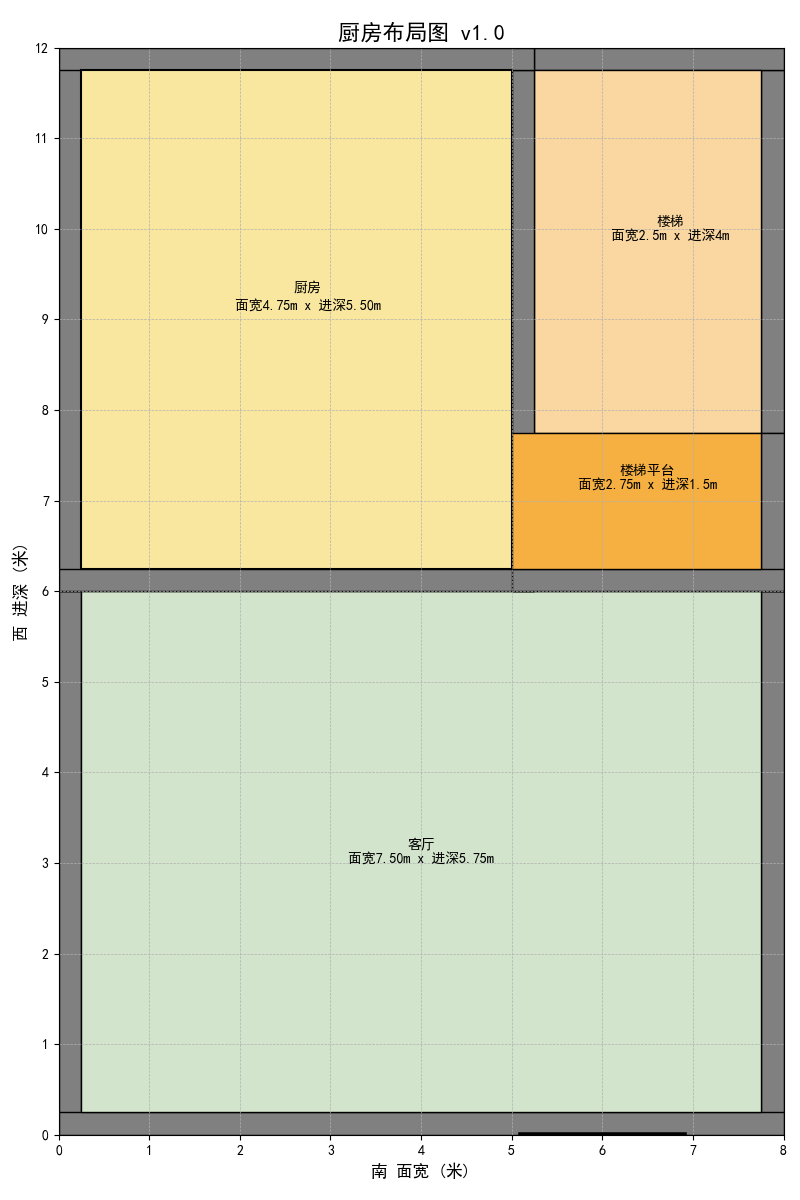
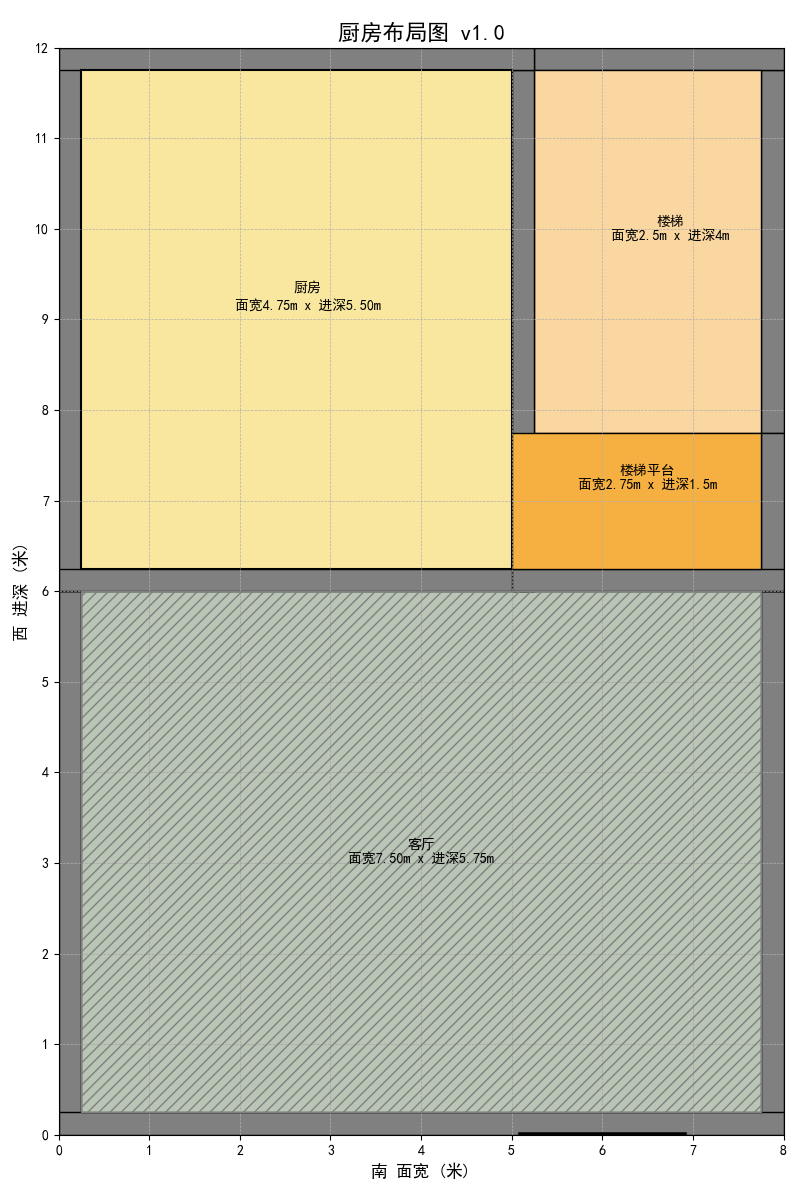
perf(floor_1_5nd.py): update

diff --git a/floor_1_5nd.py b/floor_1_5nd.py
@@ -73,6 +73,14 @@ ax.add_patch(
 ax.text(4, (6.5 - 3 * wall_thickness) / 2 + wall_thickness,
         f"客厅\n面宽{8 - 2 * wall_thickness:.2f}m x 进深{6.5 - 3 * wall_thickness:.2f}m",
         ha='center', va='center', fontsize=10)
+# 添加一个半透明的矩形表示阴影
+shadow = patches.Rectangle((wall_thickness, wall_thickness), 8 - 2 * wall_thickness, 6.5 - 3 * wall_thickness,
+                           alpha=0.3, facecolor='gray', edgecolor='none', zorder=2)
+ax.add_patch(shadow)
+# 使用斜线填充来强调区域
+hatch_emphasis = patches.Rectangle((wall_thickness, wall_thickness), 8 - 2 * wall_thickness, 6.5 - 3 * wall_thickness,
+                                   facecolor='none', hatch='///', edgecolor='gray', linewidth=1, zorder=2)
+ax.add_patch(hatch_emphasis)
 
 # 楼梯：位于右侧最里面的区域
 draw_wall(5.5 - wall_thickness, 8 - wall_thickness, 2.5 + wall_thickness, 4 + wall_thickness,
